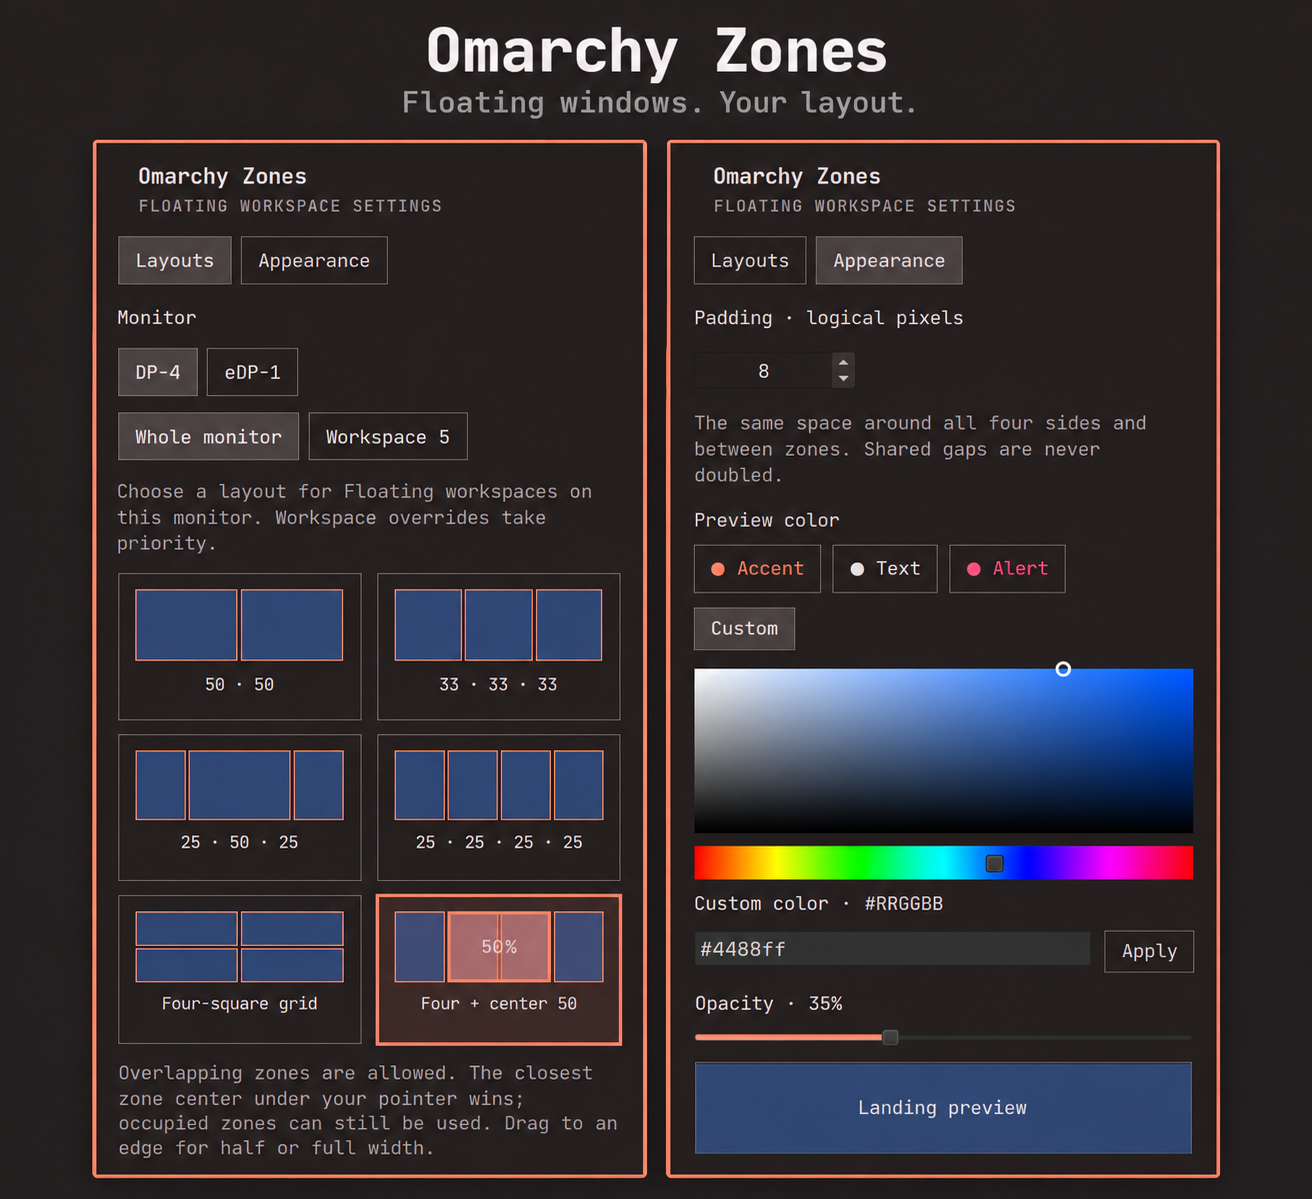
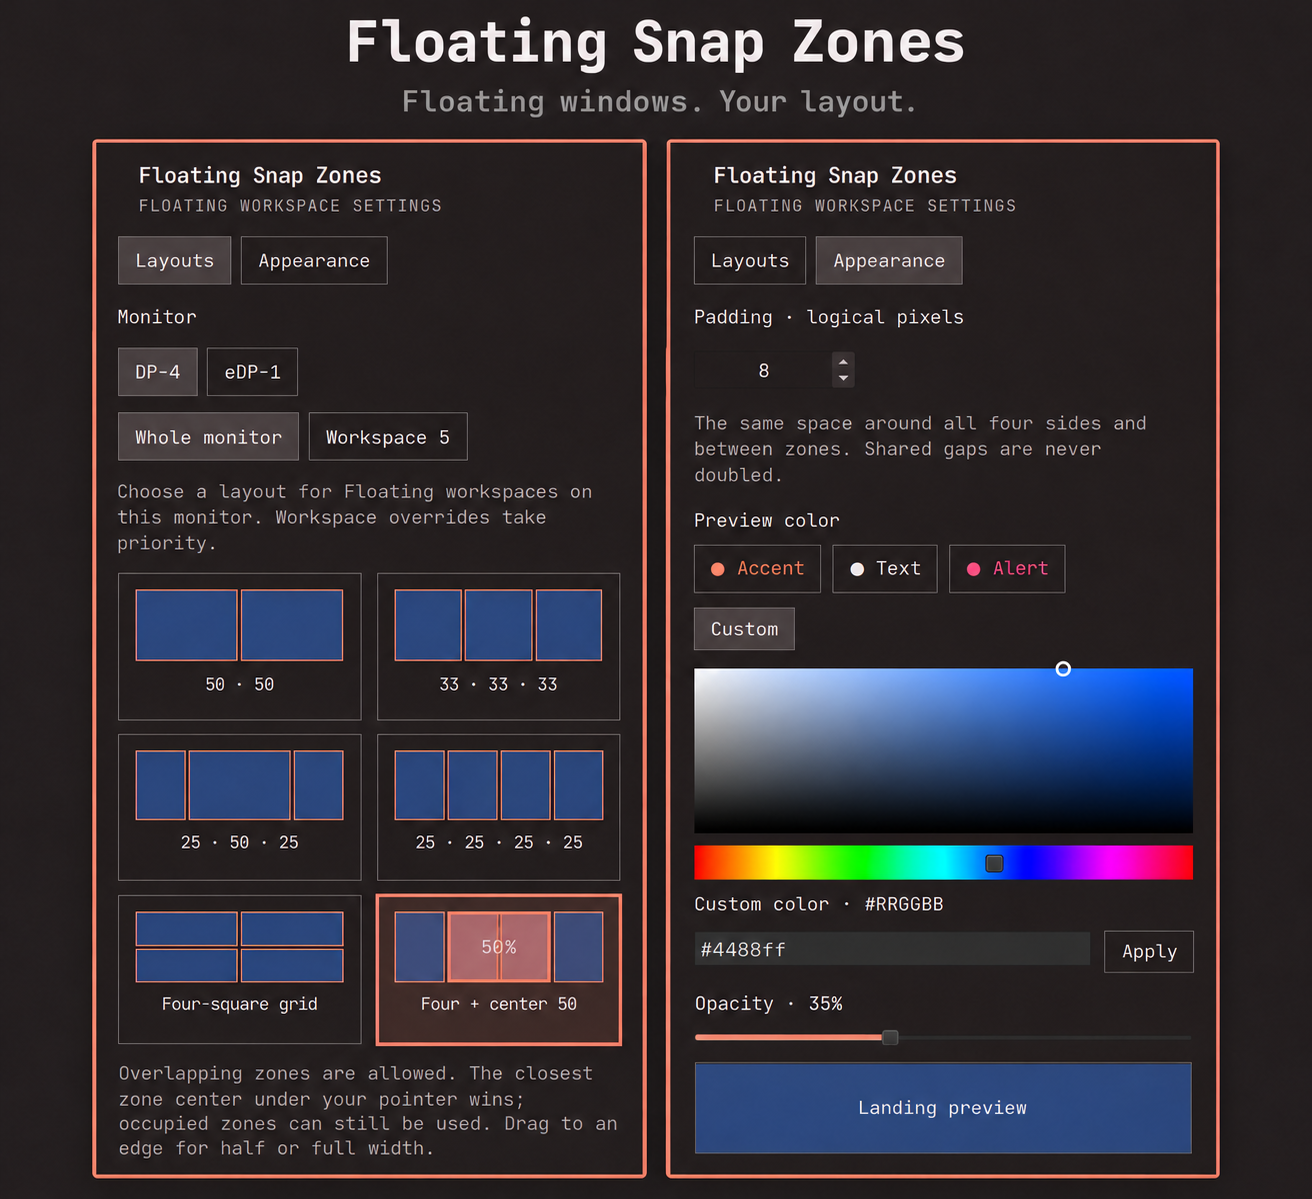
Rename the plugin to Floating Snap Zones without changing its identity

diff --git a/Appearance.qml b/Appearance.qml
@@ -40,7 +40,7 @@ Item {
             config = merge(defaults, override)
             error = ""
         }
-        catch (e) { error = "Could not read Zones settings." }
+        catch (e) { error = "Could not read Floating Snap Zones settings." }
     }
     function save(patch) {
         config = merge(config, patch)

diff --git a/runner.py b/runner.py
@@ -49,7 +49,7 @@ def ensure_observer(root=ROOT, cache=None, *, force_rebuild=False):
             library.unlink(missing_ok=True)
         elif library.is_file():
             return library
-        status('building', 'Preparing Zones for this Hyprland version…')
+        status('building', 'Preparing Floating Snap Zones for this Hyprland version…')
         with tempfile.TemporaryFile(mode='w+') as log:
             BUILD = subprocess.Popen(['bash',str(root/'scripts/build-observer.sh'),str(library)],
                                      stdout=log,stderr=log,start_new_session=True)
@@ -58,7 +58,7 @@ def ensure_observer(root=ROOT, cache=None, *, force_rebuild=False):
             except subprocess.TimeoutExpired:
                 os.killpg(BUILD.pid,signal.SIGKILL)
                 BUILD.wait()
-                raise RuntimeError('The native helper build timed out. Open Zones and choose Retry setup.')
+                raise RuntimeError('The native helper build timed out. Open Floating Snap Zones and choose Retry setup.')
             finally:
                 BUILD = None
             if result:

diff --git a/native/pointer-observer.cpp b/native/pointer-observer.cpp
@@ -22,7 +22,7 @@ APICALL EXPORT std::string PLUGIN_API_VERSION() { return HYPRLAND_API_VERSION; }
 
 APICALL EXPORT PLUGIN_DESCRIPTION_INFO PLUGIN_INIT(HANDLE) {
     if (std::string(__hyprland_api_get_hash()) != std::string(__hyprland_api_get_client_hash()))
-        throw std::runtime_error("Omarchy Zones observer: rebuild for the running Hyprland version");
+        throw std::runtime_error("Floating Snap Zones observer: rebuild for the running Hyprland version");
     buttons = Event::bus()->m_events.input.mouse.button.listen(
         [](IPointer::SButtonEvent event, Event::SCallbackInfo&) {
             if (event.button != 272 && event.button != 273) return;
@@ -33,7 +33,7 @@ APICALL EXPORT PLUGIN_DESCRIPTION_INFO PLUGIN_INIT(HANDLE) {
             publish();
         });
     publish();
-    return {"omarchy-zones-observer", "Read-only pointer state for Omarchy Zones", "Austin Wilkerson", "0.4.0"};
+    return {"omarchy-zones-observer", "Read-only pointer state for Floating Snap Zones", "Austin Wilkerson", "0.4.4"};
 }
 
 APICALL EXPORT void PLUGIN_EXIT() {

diff --git a/README.md b/README.md
@@ -1,11 +1,15 @@
-# Omarchy Zones
+# Floating Snap Zones
 
-**Floating windows. Your layout.**
+**Custom snap layouts for floating windows.**
 
 Zone snapping for Omarchy’s Floating workspace mode, with overlapping layouts,
 consistent spacing and a translucent landing preview.
 
-![Omarchy Zones — Layouts and Appearance panels side by side](preview.png)
+![Floating Snap Zones — Layouts and Appearance panels side by side](preview.png)
+
+Formerly **Omarchy Zones**. The display name has changed; the permanent plugin
+ID, GitHub repository URL, install/update commands and saved preferences paths
+remain the same, so existing installations keep their settings.
 
 ## Install
 
@@ -18,7 +22,7 @@ Releases without Floating mode are unsupported.
 omarchy plugin add https://github.com/austinwilkerson/omarchy-zones --enable
 ```
 
-Accept Omarchy’s normal trust and placement prompts. Zones adds its bar icon,
+Accept Omarchy’s normal trust and placement prompts. Floating Snap Zones adds its bar icon,
 builds its small native helper automatically on first start, then starts
 snapping. Open the icon to see setup progress. Subsequent starts reuse the
 compiled helper; a different running Hyprland ABI or updated helper source
@@ -35,7 +39,7 @@ in that cache slot; unrelated cached versions are retained.
 
 ## Choose a layout
 
-Open **Zones → Layouts**, select a monitor, then choose **Whole monitor** or a
+Open **Floating Snap Zones → Layouts**, select a monitor, then choose **Whole monitor** or a
 workspace override.
 
 | Preset | Zones |
@@ -58,7 +62,7 @@ left edge → left 50%, right edge → right 50%, top edge → 100% of the usabl
 landing preview showing its complete frame. Pausing during a drag does not snap,
 and a resize gesture preserves its manual size.
 
-Zones activates only in Omarchy’s saved **Floating workspace mode**. Individually
+Floating Snap Zones activates only in Omarchy’s saved **Floating workspace mode**. Individually
 floated windows in Tiling or Scrolling workspaces do not activate it. Changing
 settings affects the next snap; it does not rearrange existing windows.
 
@@ -94,7 +98,7 @@ consume events before ordinary shortcuts can observe them.
 
 The helper does not consume events, add keybindings, read input devices, record
 keystrokes or send network requests. It is compiled locally and checks the
-running compositor’s ABI before registering its event listener. Disabling Zones
+running compositor’s ABI before registering its event listener. Disabling Floating Snap Zones
 stops its backend and unloads the helper it loaded. No compiled binaries are
 shipped in the repository.
 

diff --git a/VALIDATION.md b/VALIDATION.md
@@ -1,4 +1,4 @@
-# Validation — 0.4.3 preview
+# Floating Snap Zones — validation for 0.4.4 preview
 
 ## Current verified environment
 
@@ -76,3 +76,11 @@ build in an isolated cache is deliberately replaced with invalid bytes; Retry's
 CLI rebuild path produces a new ELF shared object without touching an unrelated
 cache slot. These checks do not move windows or load the test helper into the
 parent compositor.
+
+
+## Display-name migration
+
+Renamed from Omarchy Zones to Floating Snap Zones. The plugin ID
+`io.github.austinwilkerson.zones`, repository URL, runtime namespace and settings
+paths remain unchanged. Source-provided native helper descriptions use the new
+name while its lookup name stays compatible with existing installations.
